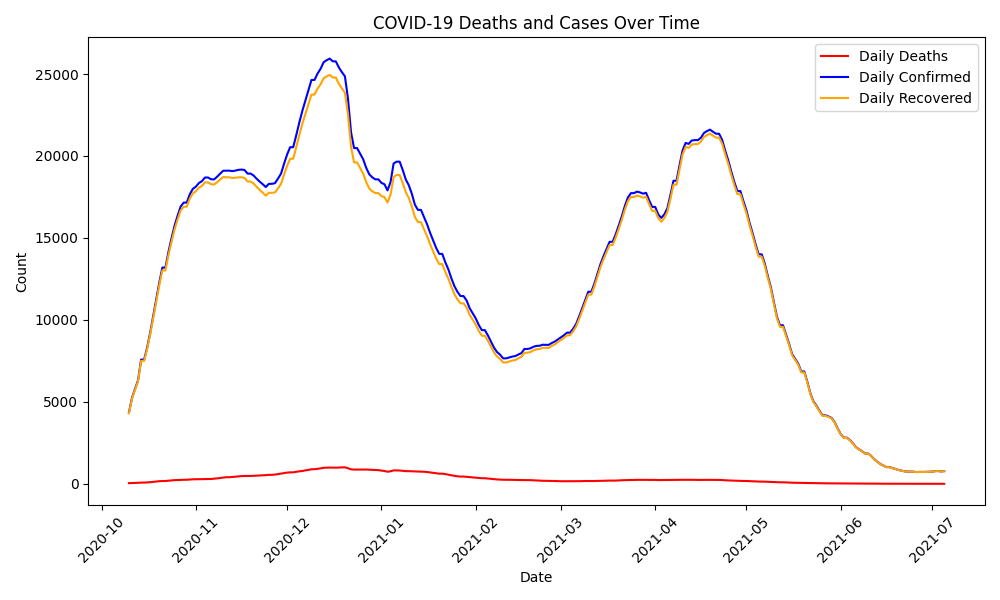
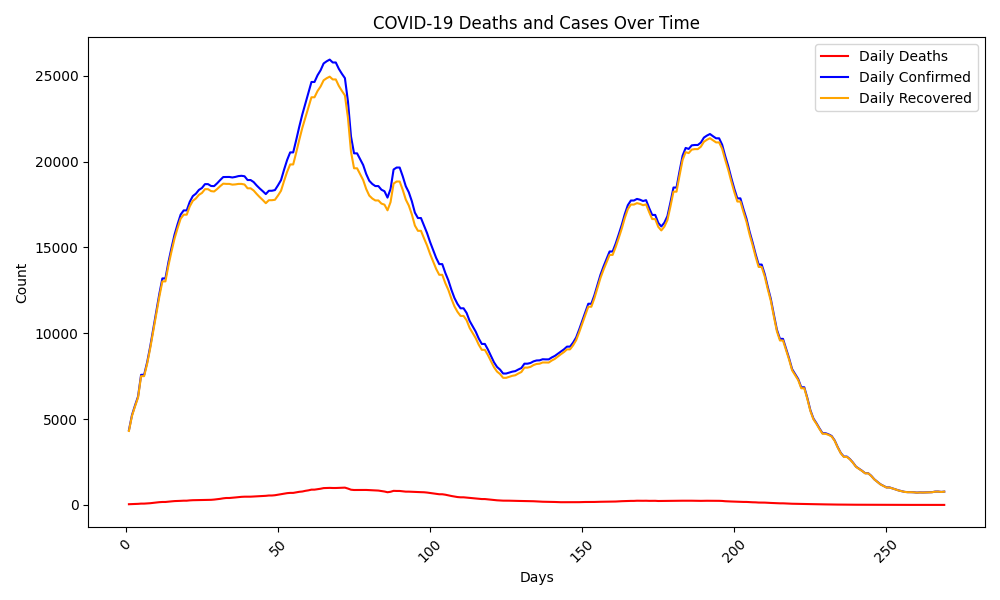
ad hoc smoother function python inbuilt method

diff --git a/iprocessor.py b/iprocessor.py
@@ -150,7 +150,7 @@ def smooth_sundays_rolling_w7_r(df):
 
     return df
 
-
+#---------------------------------------------
 def smooth_sundays_rolling_w7_l(df):
     # Apply the rolling method
     df['rolling_mean_r'] = df['n_recovered'].rolling(window=7, center=True, min_periods=1, closed='left').mean()
@@ -202,13 +202,14 @@ def smooth_sundays_rolling_w5_l(df):
     #df = df.drop(columns='rolling_mean')
 
     return df
+#-----------------------------------------------------
 def plot_data_dcr(df, column_d: str, column_c: str, column_r: str, output_filename=None):
     fig, ax = plt.subplots(figsize=(10, 6))
-    ax.plot(df['Date'], df[column_d], label='Daily Deaths', color='red')
-    ax.plot(df['Date'], df[column_c], label='Daily Confirmed', color='blue')
-    ax.plot(df['Date'], df[column_r], label='Daily Recovered', color='orange')
+    ax.plot(df['days'], df[column_d], label='Daily Deaths', color='red')# use either Date or days
+    ax.plot(df['days'], df[column_c], label='Daily Confirmed', color='blue')
+    ax.plot(df['days'], df[column_r], label='Daily Recovered', color='orange')
 
-    ax.set_xlabel('Date')
+    ax.set_xlabel('Days')
     ax.set_ylabel('Count')
     ax.set_title('COVID-19 Deaths and Cases Over Time')
 
@@ -223,9 +224,41 @@ def plot_data_dcr(df, column_d: str, column_c: str, column_r: str, output_filena
     else:
         # Display the plot
         plt.show()
+#---------------------------------------------------------------------------------
 
+import matplotlib.pyplot as plt
+
+def plot_data_dcr_multi(df,df3,df5,df7, column_:str,output_filename=None):
+    fig, ax = plt.subplots(figsize=(15, 9))
+    ax.plot(df['Date'], df[column_], label='origin', color='red')
+    ax.plot(df['Date'], df3[column_], label='w3_r', color='blue')
+    ax.plot(df['Date'], df5[column_], label='w5_r', color='orange')
+    ax.plot(df['Date'], df7[column_], label='w7_r', color='yellow')
+
+    ax.set_xlabel('Days')
+    ax.set_ylabel('Count')
+    ax.set_title('COVID-19 Deaths and Cases Over Time')
+
+    plt.xticks(rotation=45)
+
+    ax.legend()
+
+    plt.tight_layout()
+
+    if output_filename:
+        # Save the image to the specified output filename
+        plt.savefig(output_filename)
+    else:
+        # Display the plot
+        plt.show()
+
+
+
+
+#----------------------------------------------------------------------------------------
 if __name__=='__main__':
     plot_data_dcr()
+    plot_data_dcr_multi()
     add_day_name_column()
     add_date_name_column()
     smooth_sundays_ssmt()

diff --git a/smoother.py b/smoother.py
@@ -1,7 +1,7 @@
 import pandas as pd
 from iprocessor import add_day_name_column, plot_data_dcr, add_date_name_column, smooth_sundays_ssmt,smooth_sundays_ssm,\
     smooth_sundays_rolling_ssm_w3,smooth_sundays_rolling_ssm_w5,smooth_sundays_rolling_w5_r,smooth_sundays_rolling_w5_l,smooth_sundays_rolling_w7_l,\
-        smooth_sundays_rolling_w7_r,smooth_sundays_rolling_ssm_w3_smt
+        smooth_sundays_rolling_w7_r,smooth_sundays_rolling_ssm_w3_smt,plot_data_dcr_multi
 import math
 
 
@@ -41,3 +41,11 @@ plot_data_dcr(smooth_sundays_rolling_w5_l(df),'n_death','n_confirmed','n_recover
 #plot_data_dcr(df_,'n_death','n_confirmed','n_recovered',)
 
 #(smooth_sundays(df))['n_recovered'].plot()
+df_smoothed_rolling_w7_r = smooth_sundays_rolling_w7_r(df)
+df_smoothed_rolling_w5_r = smooth_sundays_rolling_w5_r(df)
+df_origin = df
+df_smoothed_rolling_w3_r = smooth_sundays_rolling_ssm_w3(df)
+
+plot_data_dcr_multi(
+    [df_origin, df_smoothed_rolling_w3_r, df_smoothed_rolling_w5_r,df_smoothed_rolling_w7_r ],
+    [ 'origin', 'w3_r', 'w5_r','w7_r'],output_filename='multi.png')
